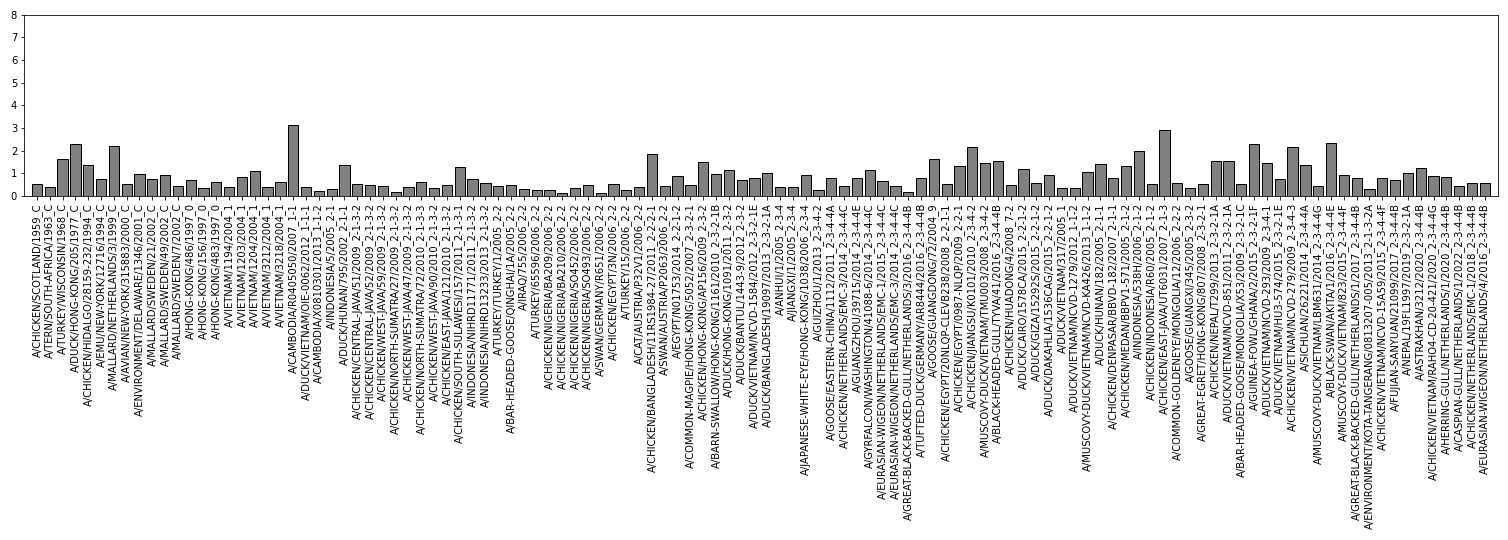
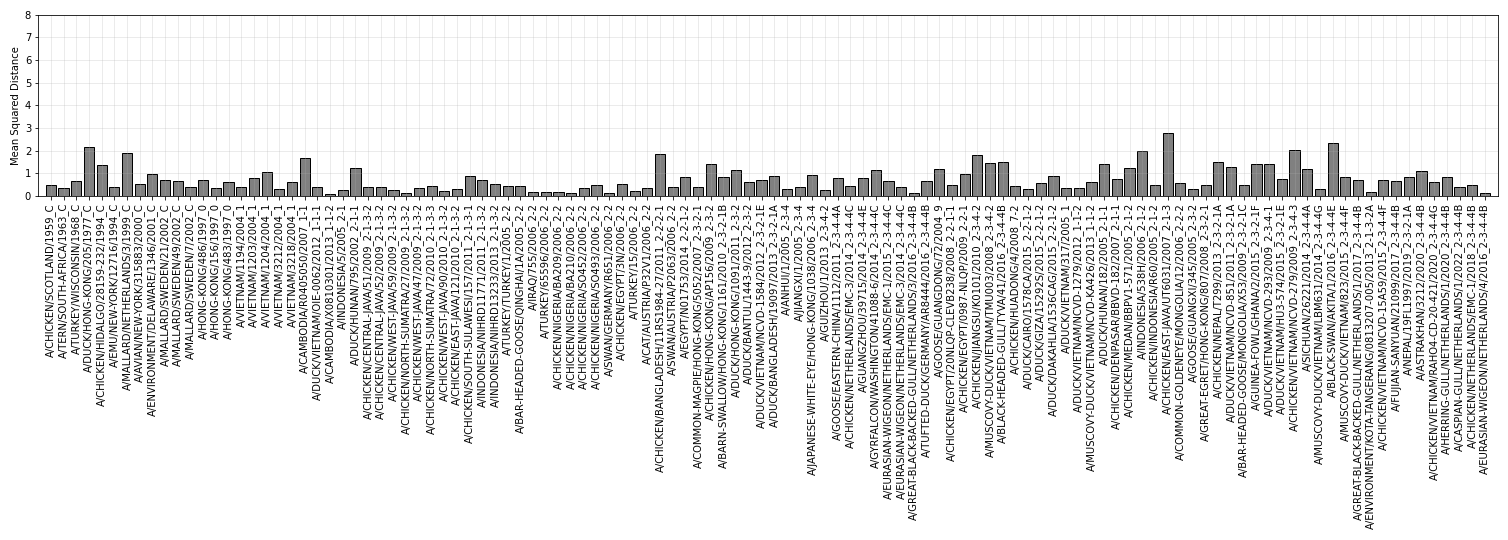
Add files via upload

diff --git a/piecewise_procrustes/bar_plots.py b/piecewise_procrustes/bar_plots.py
@@ -1,0 +1,65 @@
+#!/usr/bin/env python3
+# -*- coding: utf-8 -*-
+"""
+Created on Fri Nov 17 19:00:28 2023
+
+@author: avicenna
+"""
+
+import PyRacmacs as pr
+import pandas as pd
+import matplotlib.pyplot as plt
+import numpy as np
+
+
+if __name__=="__main__":
+
+  map_3D = pr.read_racmap("../map_making/output/map_3D_conservative_sd_1.5_n4.ace")
+  map_4D = pr.read_racmap("../map_making/output/map_4D_conservative_sd_1.5_n4.ace")
+
+  compare_sera = True
+
+  for npieces in [1,2,3,4,5]:
+
+    nag = map_3D.num_antigens
+    nsr = map_3D.num_sera
+
+    df_ag = pd.read_csv(f"./output/ag_ppc_data_{npieces}.csv", header=0,
+                        index_col=0)
+    df_sr = pd.read_csv(f"./output/sr_ppc_data_{npieces}.csv", header=0,
+                        index_col=0)
+
+    pc_data_ag = df_ag.iloc[:,:3].values
+    pc_data_sr = df_sr.iloc[:,:3].values
+
+    fig1,ax1 = plt.subplots(1,1, figsize=(0.175*nag+1, 7.5))
+
+    ax1.bar(map_3D.ag_names, np.linalg.norm(pc_data_ag, axis=1),
+            facecolor="grey", edgecolor="black")
+
+    ax1.set_xticks(range(nag))
+    ax1.set_xticklabels(map_3D.ag_names, rotation=90)
+    ax1.set_xlim(-1, nag)
+    ax1.set_ylim([0,8])
+    ax1.set_ylabel("Mean Squared Distance")
+    ax1.grid("on", alpha=0.3)
+
+    fig1.tight_layout()
+    fig1.savefig(f"./visuals/bars_ag_{npieces}.png")
+
+
+    if compare_sera:
+
+      fig2,ax2 = plt.subplots(1,1, figsize=(0.175*nsr+1, 6.1))
+
+      ax2.bar(map_3D.sr_names, np.linalg.norm(pc_data_sr, axis=1),
+              facecolor="grey", edgecolor="black")
+      ax2.set_xticks(range(nsr))
+      ax2.set_xticklabels(map_3D.sr_names, rotation=90)
+      ax2.set_xlim(-1, nsr)
+      ax2.set_ylim([0,8])
+      ax2.set_ylabel("Mean Squared Distance")
+      ax2.grid("on", alpha=0.3)
+
+      fig2.tight_layout()
+      fig2.savefig(f"./visuals/bars_sr_{npieces}.png")

diff --git a/piecewise_procrustes/procrustes_3D_vs_4D.py b/piecewise_procrustes/procrustes_3D_vs_4D.py
@@ -21,8 +21,10 @@ if __name__=="__main__":
   cols = ["dim1", "dim2", "dim3", "dim4", "label"]
 
   compare_sera = True
+  load = False
 
   for npieces in [1,2,3,4,5]:
+
     _,final_labels,_,stresses = pr.piecewise_procrustes(map_3D, map_4D, npieces,
                                                         ninitial_conditions=500,
                                                         num_cpus=8,
@@ -43,20 +45,6 @@ if __name__=="__main__":
 
     df_ag.to_csv(f"./output/ag_ppc_data_{npieces}.csv", header=True, index=True)
 
-    fig1,ax1 = plt.subplots(1,1, figsize=(0.175*nag+1, 7.5))
-
-    ax1.bar(map_3D.ag_names, np.linalg.norm(pc_data[:nag,:],axis=1),
-            facecolor="grey", edgecolor="black")
-
-    ax1.set_xticks(range(nag))
-    ax1.set_xticklabels(map_3D.ag_names, rotation=90)
-    ax1.set_xlim(-1, nag)
-    ax1.set_ylim([0,8])
-
-    fig1.tight_layout()
-    fig1.savefig(f"./visuals/bars_ag_{npieces}.png")
-
-
     if compare_sera:
       df_sr = pd.DataFrame(np.concatenate([pc_data[nag:nsr+nag,:].astype(object),
                                            final_labels[nag:nsr+nag,None]], axis=1),
@@ -65,17 +53,7 @@ if __name__=="__main__":
       df_sr.to_csv(f"./output/sr_ppc_data_{npieces}.csv", header=True, index=True)
 
 
-      fig2,ax2 = plt.subplots(1,1, figsize=(0.175*nsr+1, 6.1))
 
-      ax2.bar(map_3D.sr_names, np.linalg.norm(pc_data[nag:nsr+nag,:],axis=1),
-              facecolor="grey", edgecolor="black")
-      ax2.set_xticks(range(nsr))
-      ax2.set_xticklabels(map_3D.sr_names, rotation=90)
-      ax2.set_xlim(-1, nsr)
-      ax2.set_ylim([0,8])
-
-      fig2.tight_layout()
-      fig2.savefig(f"./visuals/bars_sr_{npieces}.png")
 
 
   fig,ax = plt.subplots(1,1, figsize=(5,5))
